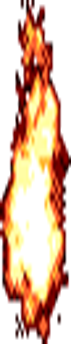
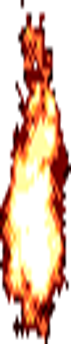
Add Animacion de fuego de dragon lista

diff --git a/Bullet.java b/Bullet.java
@@ -34,7 +34,7 @@ public class Bullet extends Actor
                    setLocation(getX()-12,getY());
                    break;
         }
-            Actor DragonHead = getOneObjectAtOffset(-13,-12, DragonHead.class);
+            Actor DragonHead = getOneObjectAtOffset(0,0, DragonHead.class);
             Actor DragonFront = getOneObjectAtOffset(-4,-7, DragonFront.class);
             Actor DragonBody = getOneObjectAtOffset(0,0, DragonBody.class);
         if(getX()>=getWorld().getWidth()-3 || (getX())<=3){
@@ -46,14 +46,8 @@ public class Bullet extends Actor
             world.lifeEnemy.decrementar();
             world.puntos.incrementar();
             
-            if(world.lifeEnemy.ObtenerValor()==300){
-                Level1 level1= new Level1();
-                world.addObject(level1,500,250);
-                Greenfoot.delay(50);
-                world.removeObject(level1);
 
-            }
-            else if(world.lifeEnemy.ObtenerValor()==200){
+            if(world.lifeEnemy.ObtenerValor()==200){
                 world.removeObject(DragonHead);
                 Level2 level2= new Level2();
                 world.addObject(level2,500,250);

diff --git a/MyWorld.java b/MyWorld.java
@@ -21,13 +21,12 @@ public class MyWorld extends World
      */
     public MyWorld()
     {    
-        super(1024, 600, 1); 
-        prepare();
-        puntos =new PuntajeYVidas (0, "Puntaje ");
+        super(1024, 600, 1);
+          puntos =new PuntajeYVidas (0, "Puntaje ");
         vidas =new PuntajeYVidas(3, "Vidas ");
-        
         addObject(puntos,150,85);
         addObject(vidas,301,85);
+        prepare();
     }
     
 
@@ -37,12 +36,13 @@ public class MyWorld extends World
      */
     private void prepare()
     {
-
         Jugador jugador = new Jugador();
         addObject(jugador,475,397);
         jugador.setLocation(488,455);
         DragonHead dragonHead = new DragonHead();
         addObject(dragonHead,490,78);
+        Fire fire = new Fire();
+        addObject(fire,490,340);
         lifeEnemy = new LifeEnemy(300,0,0,20);
         addObject(lifeEnemy,750,85);
         
@@ -53,10 +53,9 @@ public class MyWorld extends World
     public void act(){
      mainMusic.playLoop();
     }
-    
-    
     public void borrarvida(){
         world.removeObject(lifeEnemy);
     }
+
     
 }

diff --git a/Fire.java b/Fire.java
@@ -10,6 +10,19 @@ public class Fire extends DragonHead
 {
     private int xVelocity=2;
     private int xDirection=1;
+    private int indexCount;
+    
+    private GreenfootImage[] imagesF = new GreenfootImage [6];
+    
+    int numF=0;
+        public void addedToWorld(World Latar)
+    {
+        for(int i=0;i<imagesF.length;i++)
+        {
+            imagesF[i]= new GreenfootImage("f"+i+".png");
+            setImage(imagesF[0]);
+        }
+    }
     /**
      * Act - do whatever the fire wants to do. This method is called whenever
      * the 'Act' or 'Run' button gets pressed in the environment.
@@ -22,9 +35,18 @@ public class Fire extends DragonHead
        
         setLocation(x + xVelocity * xDirection,y);
         if(isAtEdge()) {
-        xDirection = xDirection *-1;
+          xDirection = xDirection *-1;
         
         
+       }
+       setImage(imagesF[numF]);
+       indexCount++;
+             if(indexCount>7){
+                numF++;
+                indexCount=0;
+             }
+       if(numF>=imagesF.length){
+                 numF=0;
        }
     }    
 }

diff --git a/Lacer.java b/Lacer.java
@@ -18,12 +18,14 @@ public class Lacer extends DragonFront
     {
         // Add your action code here.
         
+        
         int x= getX();
         int y= getY();
         setLocation(x + xVelocity * xDirection,y);
         
         if(isAtEdge()){
          getWorld().removeObject(this);
+         
         }
 
     }    
